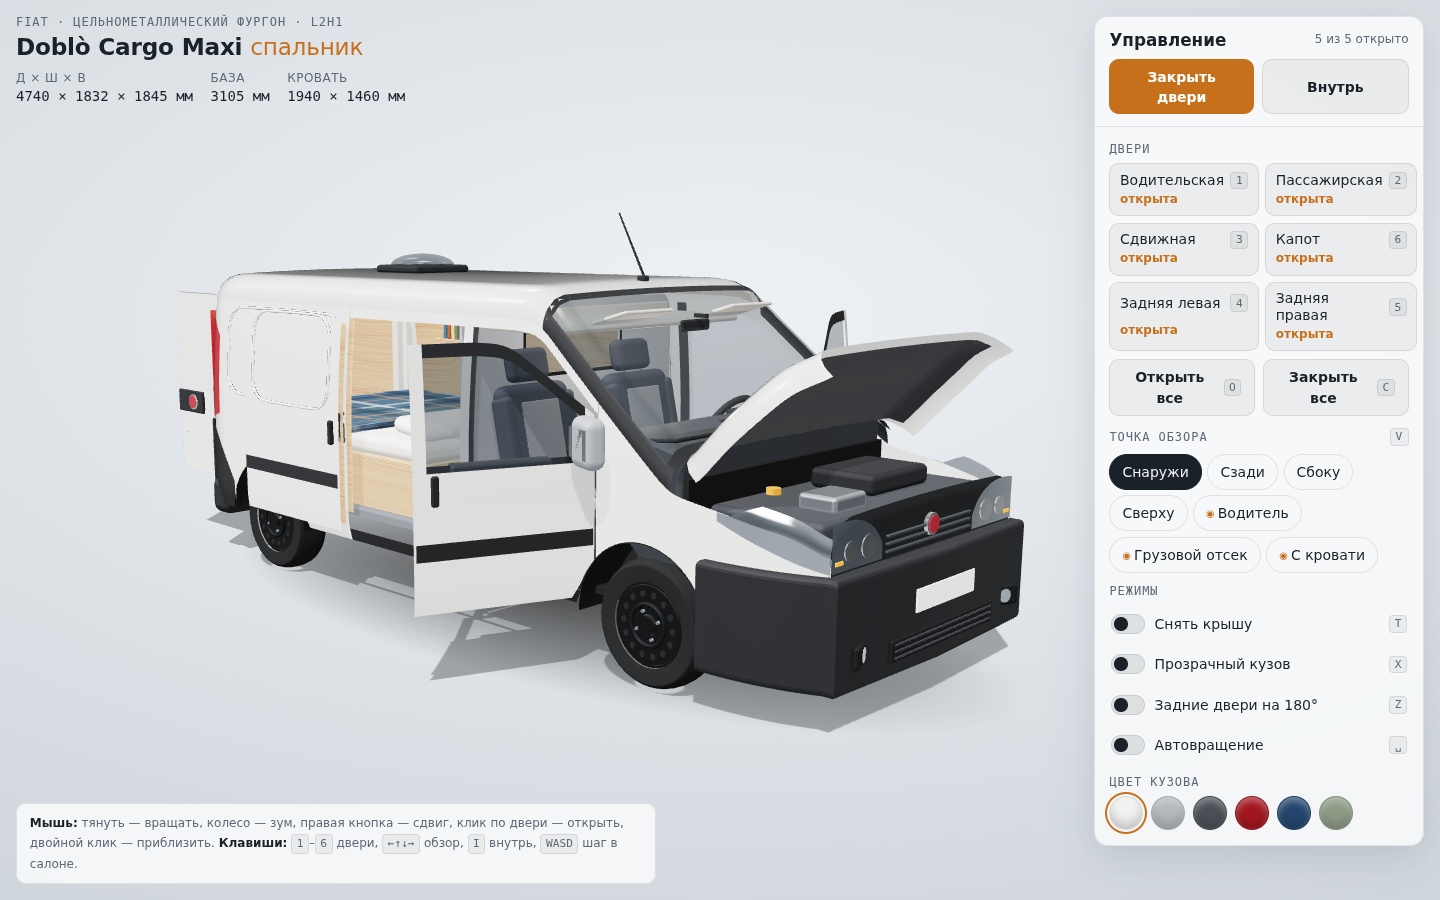
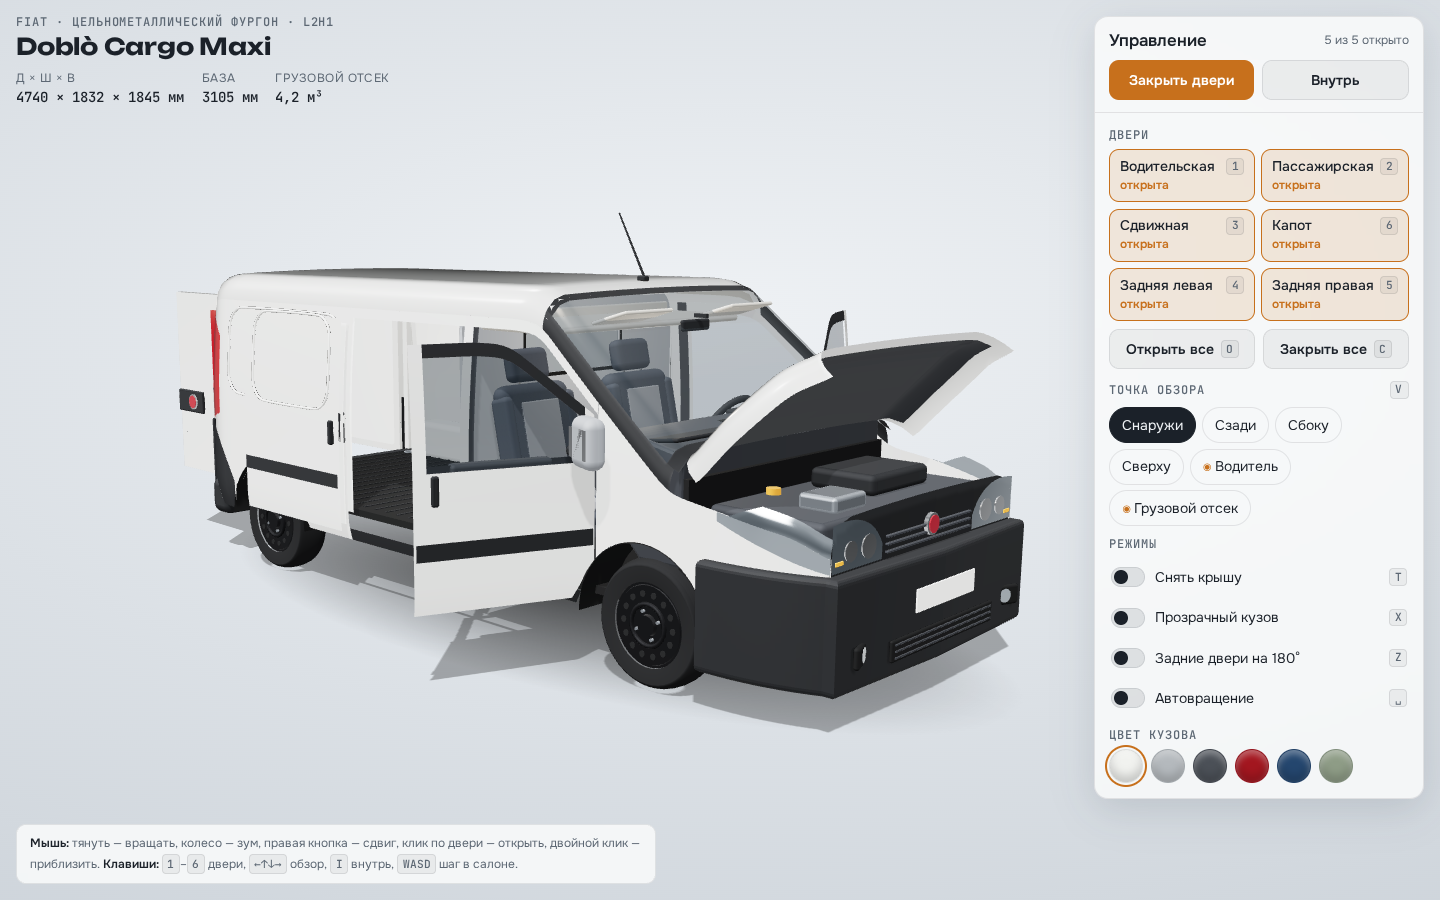
Remove sleeper module: plain empty cargo van as in the photos
Drop the bed, drawers, shelf, plywood lining, LED strips and roof fan.
The cargo area is now bare painted metal with frame stiffeners, a
ribbed rubber floor, tie-down rings, wheel-arch housings and a dome
light. UI and README no longer mention the sleeper.

Claude-Session: https://claude.ai/code/session_01WEnvUqq9Q1ewvEPp3gbKib

diff --git a/js/car.js b/js/car.js
@@ -1,4 +1,4 @@
-// Процедурная модель Fiat Doblò Cargo Maxi (кузов 263, L2H1) с жилым модулем «спальник».
+// Процедурная модель цельнометаллического фургона Fiat Doblò Cargo Maxi (кузов 263, L2H1).
 // Система координат модели: X — вдоль машины (0 = задний срез, +X вперёд), Y — вверх, Z — вправо.
 // Единицы — метры. Габариты взяты из техданных: 4740 × 1832 × 1845 мм, база 3105 мм.
 import * as THREE from 'three';
@@ -245,38 +245,6 @@ function rand(seed) {
   return () => ((s = (s * 16807) % 2147483647) / 2147483647);
 }
 
-const woodTexture = () =>
-  canvasTexture(512, 512, (g, w, h) => {
-    const r = rand(7);
-    g.fillStyle = '#c9a37a';
-    g.fillRect(0, 0, w, h);
-    for (let i = 0; i < 90; i++) {
-      const y = r() * h;
-      g.strokeStyle = `rgba(${120 + r() * 40},${80 + r() * 30},${40 + r() * 20},${0.12 + r() * 0.2})`;
-      g.lineWidth = 1 + r() * 3;
-      g.beginPath();
-      g.moveTo(0, y);
-      for (let x = 0; x <= w; x += 32) g.lineTo(x, y + Math.sin(x * 0.02 + i) * (2 + r() * 4));
-      g.stroke();
-    }
-  });
-
-const plaidTexture = () =>
-  canvasTexture(256, 256, (g, w, h) => {
-    g.fillStyle = '#39556b';
-    g.fillRect(0, 0, w, h);
-    g.globalAlpha = 0.55;
-    for (const [c, o, s] of [
-      ['#c9d4dc', 0, 18],
-      ['#1f3344', 64, 40],
-      ['#d98c3a', 150, 8],
-    ]) {
-      g.fillStyle = c;
-      g.fillRect(o, 0, s, h);
-      g.fillRect(0, o, w, s);
-    }
-  }, [2, 2]);
-
 const fabricTexture = () =>
   canvasTexture(128, 128, (g, w, h) => {
     const r = rand(3);
@@ -315,16 +283,12 @@ export function createMaterials() {
     amber: new THREE.MeshStandardMaterial({ color: 0xf0a020, roughness: 0.2, emissive: 0x6a3d00, emissiveIntensity: 0.5 }),
     tire: new THREE.MeshStandardMaterial({ color: 0x17181a, roughness: 0.92 }),
     fabric: new THREE.MeshStandardMaterial({ color: 0xffffff, map: fabricTexture(), roughness: 0.95 }),
-    wood: new THREE.MeshStandardMaterial({ color: 0xffffff, map: woodTexture(), roughness: 0.7, side: DS }),
-    felt: new THREE.MeshStandardMaterial({ color: 0x6c7076, roughness: 1, side: DS }),
-    mattress: new THREE.MeshStandardMaterial({ color: 0xe6e2da, roughness: 0.95 }),
-    pillow: new THREE.MeshStandardMaterial({ color: 0xf5f2ec, roughness: 0.95 }),
-    blanket: new THREE.MeshStandardMaterial({ color: 0xffffff, map: plaidTexture(), roughness: 0.98 }),
     led: new THREE.MeshStandardMaterial({ color: 0xfff3da, emissive: 0xffd9a0, emissiveIntensity: 2.2 }),
     screen: new THREE.MeshStandardMaterial({ color: 0x0b0f14, emissive: 0x2a6fa8, emissiveIntensity: 0.55, roughness: 0.2 }),
     gauge: new THREE.MeshStandardMaterial({ color: 0x0d0e10, emissive: 0xffffff, emissiveIntensity: 0.02, roughness: 0.3 }),
     plate: new THREE.MeshStandardMaterial({ color: 0xf6f6f2, roughness: 0.5 }),
     rubber: new THREE.MeshStandardMaterial({ color: 0x101112, roughness: 0.9, side: DS }),
+    paintInner: new THREE.MeshStandardMaterial({ color: 0xe9eae7, roughness: 0.55, side: DS }), // изнанка кузова
     bulkhead: new THREE.MeshStandardMaterial({ color: 0x9b9fa4, roughness: 1, side: DS }), // серый войлок
     fabricLight: new THREE.MeshStandardMaterial({ color: 0x7d8085, roughness: 1 }),
     steelBlack: new THREE.MeshStandardMaterial({ color: 0x1c1d20, metalness: 0.55, roughness: 0.45 }),
@@ -401,8 +365,13 @@ export function buildCar(M) {
     emboss(side, 0.3, hasSlide ? X_SL - 0.08 : X_B2 - 0.1, 1.1, 1.64);
     // молдинг: слева продолжается на боковину, справа — только на дверях
     if (!hasSlide) mesh(sideGeo({ side, x0: 1.55, x1: X_B2 - 0.01, y0: 0.66, y1: 0.74, off: 0.008, nu: 12, nv: 1 }), M.plastic);
-    // обшивка грузового отсека изнутри (фанера)
-    mesh(sideGeo({ side, x0: 0.06, x1: hasSlide ? X_SL : 2.46, y0: 0.5, y1: (x) => shoulder(x) - 0.02, off: -0.035, nu: 24, nv: 10 }), M.wood, interior);
+    // грузовой отсек без обшивки: внутренняя панель боковины из окрашенного металла
+    mesh(sideGeo({ side, x0: 0.06, x1: hasSlide ? X_SL : 2.46, y0: 0.5, y1: (x) => shoulder(x) - 0.02, off: -0.035, nu: 24, nv: 10 }), M.paintInner, interior);
+    // стойки-усилители каркаса и крючки для крепления груза
+    for (const x of [0.55, 1.2]) {
+      if (hasSlide && x > X_SL - 0.1) continue;
+      mesh(sideGeo({ side, x0: x - 0.04, x1: x + 0.04, y0: 0.72, y1: (xx) => shoulder(xx) - 0.03, off: -0.06, nu: 2, nv: 6 }), M.paintInner, interior);
+    }
     mesh(sideGeo({ side, x0: X_B2, x1: X_B, y0: 0.5, off: -0.035, nu: 2, nv: 8 }), M.trim, interior);
     if (hasSlide) {
       // закрытая направляющая сдвижной двери на задней боковине
@@ -434,7 +403,7 @@ export function buildCar(M) {
 
   // ----- крыша, лобовое стекло, капот
   mesh(topGeo({ x0: 0, x1: 3.14, nu: 30, nv: 30 }), M.paint, roof);
-  mesh(topGeo({ x0: 0.06, x1: 2.55, off: -0.03, s0: -0.93, s1: 0.93, nu: 10, nv: 20 }), M.wood, roof);
+  mesh(topGeo({ x0: 0.06, x1: 2.46, off: -0.03, s0: -0.93, s1: 0.93, nu: 10, nv: 20 }), M.paintInner, roof);
   mesh(topGeo({ x0: 2.55, x1: 3.12, off: -0.03, s0: -0.93, s1: 0.93, nu: 6, nv: 20 }), M.headliner, roof);
   mesh(topGeo({ x0: 3.14, x1: 3.95, s0: -0.9, s1: 0.9, nu: 20, nv: 24 }), M.glass, body, false);
   mesh(topGeo({ x0: 3.12, x1: 3.97, s0: -1, s1: -0.9, nu: 20, nv: 4 }), M.plastic);
@@ -448,15 +417,6 @@ export function buildCar(M) {
     ant.position.set(2.92, p.y + 0.18, 0);
     ant.rotation.z = 0.5;
     box(0.06, 0.03, 0.04, 0.01, M.plastic, 3.0, p.y + 0.01, 0, roof);
-  }
-  // вентилятор-люк спального модуля
-  {
-    const p = topPoint(1.15, 0, 0, new THREE.Vector3());
-    box(0.42, 0.05, 0.42, 0.02, M.plastic, 1.15, p.y + 0.02, 0, roof);
-    const dome = mesh(new THREE.SphereGeometry(0.2, 24, 12, 0, Math.PI * 2, 0, Math.PI / 2), M.glass, roof, false);
-    dome.scale.y = 0.35;
-    dome.position.set(1.15, p.y + 0.045, 0);
-    box(0.4, 0.02, 0.4, 0.005, M.plastic, 1.15, p.y - 0.05, 0, roof);
   }
 
   // капот — открывается
@@ -593,10 +553,17 @@ export function buildCar(M) {
   }
 
   // ----- пол, перегородки, колёсные ниши внутри
-  box(2.52, 0.04, 1.62, 0, M.felt, 0.05 + 2.52 / 2, 0.48, 0, interior);
+  // пол грузового отсека: чёрное резиновое покрытие с рифлением и проушины крепления груза
+  box(2.42, 0.04, 1.62, 0, M.rubber, 0.05 + 2.42 / 2, 0.48, 0, interior);
+  for (let i = 0; i < 22; i++) box(0.012, 0.006, 1.5, 0, M.plastic, 0.12 + i * 0.105, 0.503, 0, interior);
+  for (const x of [0.2, 2.3]) for (const z of [-0.62, 0.62]) {
+    const ring = mesh(new THREE.TorusGeometry(0.03, 0.006, 6, 16), M.steel, interior);
+    ring.rotation.x = Math.PI / 2;
+    ring.position.set(x, 0.51, z);
+  }
   box(1.35, 0.04, 1.62, 0, M.rubber, 2.57 + 1.35 / 2, 0.4, 0, interior);
   for (const side of [-1, 1]) {
-    box(0.82, 0.26, 0.2, 0.04, M.felt, DIM.rearAxle, 0.62, side * 0.72, interior);
+    box(0.82, 0.26, 0.2, 0.04, M.paintInner, DIM.rearAxle, 0.62, side * 0.72, interior);
   }
   // перегородка «кабина / грузовой отсек» с окном, как у серийного Doblò Cargo
   {
@@ -731,7 +698,7 @@ export function buildCar(M) {
     // грузовой фургон: сдвижная дверь глухая, без окна
     mesh(sideGeo({ side, x0, x1, y0: Y_SILL, y1: top, nu: 24, nv: 16 }), M.paint, g);
     emboss(side, x0 + 0.1, x1 - 0.1, 1.1, 1.64, g);
-    mesh(sideGeo({ side, x0: x0 + 0.02, x1: x1 - 0.02, y0: Y_SILL + 0.03, y1: (x) => top(x) - 0.03, off: -0.05, nu: 20, nv: 10 }), M.wood, g);
+    mesh(sideGeo({ side, x0: x0 + 0.02, x1: x1 - 0.02, y0: Y_SILL + 0.03, y1: (x) => top(x) - 0.03, off: -0.05, nu: 20, nv: 10 }), M.paintInner, g);
     mesh(sideGeo({ side, x0: x0 + 0.01, x1: x1 - 0.01, y0: 0.66, y1: 0.74, off: 0.008, nu: 20, nv: 1 }), M.plastic, g);
     box(0.035, 0.14, 0.03, 0.012, M.plastic, x1 - 0.06, 0.98, side * (HW + 0.012), g);
     box(0.03, 0.18, 0.04, 0.012, M.plastic, x1 - 0.06, 1.0, side * (HW - 0.07), g);
@@ -788,7 +755,7 @@ export function buildCar(M) {
     panel.position.x = depth;
     // обшивка изнутри
     const trimShape = roundedRectShape(za + 0.05, y0 + 0.05, zb - 0.05, y1 - 0.06, 0.03);
-    mesh(capGeo(trimShape, depth + 0.012), M.wood, g);
+    mesh(capGeo(trimShape, depth + 0.012), M.paintInner, g);
     // ручка, номер
     // чёрная накладка поперёк дверей: на левой — номер и ручка, на правой — эмблема
     if (side < 0) {
@@ -966,71 +933,11 @@ export function buildCar(M) {
     box(0.12, 0.02, 0.2, 0.01, M.led, 3.05, 1.8, 0, roof);
   }
 
-  // ---------------------------------------------------------------- спальный модуль
-  const sleeper = new THREE.Group();
-  interior.add(sleeper);
-  {
-    const bx0 = 0.08;
-    const bx1 = 2.02;
-    const L = bx1 - bx0;
-    const cx = (bx0 + bx1) / 2;
-    const top = 0.8;
-    // каркас и столешница кровати
-    box(L, 0.022, 1.46, 0.004, M.wood, cx, top, 0, sleeper);
-    for (const z of [-0.72, 0.72]) box(L, 0.3, 0.018, 0.003, M.wood, cx, 0.65, z, sleeper);
-    box(0.018, 0.3, 1.44, 0.003, M.wood, bx1, 0.65, 0, sleeper);
-    // выдвижные ящики со стороны задних дверей
-    const drawers = [];
-    for (const [z, w] of [[-0.38, 0.62], [0.38, 0.62]]) {
-      const d = new THREE.Group();
-      d.position.set(bx0, 0, z);
-      sleeper.add(d);
-      box(0.02, 0.26, w, 0.004, M.wood, 0, 0.65, 0, d);
-      box(0.55, 0.018, w - 0.04, 0.003, M.wood, 0.28, 0.53, 0, d);
-      box(0.5, 0.2, 0.012, 0.002, M.wood, 0.28, 0.63, (w / 2 - 0.02), d);
-      box(0.5, 0.2, 0.012, 0.002, M.wood, 0.28, 0.63, -(w / 2 - 0.02), d);
-      box(0.025, 0.03, 0.16, 0.012, M.plastic, -0.02, 0.7, 0, d);
-      // содержимое ящика
-      box(0.22, 0.12, 0.2, 0.02, M.amber, 0.2, 0.6, 0.12, d).material = M.plasticMid;
-      box(0.18, 0.1, 0.16, 0.03, M.blanket, 0.38, 0.59, -0.12, d);
-      drawers.push(d);
-    }
-    // матрас
-    box(L - 0.02, 0.12, 1.42, 0.05, M.mattress, cx, top + 0.07, 0, sleeper);
-    // подушки у кабины
-    for (const z of [-0.34, 0.34]) {
-      const p = box(0.36, 0.1, 0.56, 0.05, M.pillow, bx1 - 0.25, top + 0.18, z, sleeper);
-      p.rotation.z = -0.12;
-    }
-    // плед
-    const bl = box(1.15, 0.035, 1.46, 0.015, M.blanket, bx0 + 0.62, top + 0.145, 0, sleeper);
-    void bl;
-    const fold = box(0.14, 0.05, 1.46, 0.022, M.blanket, bx0 + 1.2, top + 0.15, 0, sleeper);
-    void fold;
-    // светодиодные ленты и точечный свет
-    for (const side of [-1, 1]) {
-      const p = topPoint(1.2, side * 0.86, -0.045, new THREE.Vector3());
-      box(2.1, 0.012, 0.025, 0.004, M.led, 1.2, p.y, p.z, roof);
-    }
-    // полка с книгами на левой стенке
-    box(0.7, 0.015, 0.14, 0.004, M.wood, 0.8, 1.35, -0.74, sleeper);
-    const books = [0x3b5f7a, 0x8c4a2f, 0xd4b26a, 0x4f6b4a, 0x6c4f7a];
-    books.forEach((c, i) => {
-      const m = new THREE.MeshStandardMaterial({ color: c, roughness: 0.8 });
-      box(0.03, 0.18 + (i % 2) * 0.03, 0.11, 0.004, m, 0.55 + i * 0.04, 1.45 + (i % 2) * 0.015, -0.74, sleeper);
-    });
-    // термос-кружка и фонарик на полке
-    const mug = mesh(new THREE.CylinderGeometry(0.035, 0.035, 0.12, 20), M.steel, sleeper);
-    mug.position.set(0.95, 1.42, -0.74);
-    // сетка-органайзер на правой стенке
-    box(0.6, 0.35, 0.01, 0.005, M.plastic, 0.9, 1.25, 0.77, sleeper).material = new THREE.MeshStandardMaterial({
-      color: 0x2c3036, roughness: 1, transparent: true, opacity: 0.75,
-    });
-    sleeper.userData.drawers = drawers;
-  }
+  // плафон грузового отсека
+  box(0.16, 0.025, 0.08, 0.01, M.led, 1.3, topPoint(1.3, 0, -0.035, new THREE.Vector3()).y - 0.01, 0, roof);
 
   // Светильники салона: без теней, чтобы внутри было видно и при закрытой машине.
-  const cabinLight = new THREE.PointLight(0xffe2b8, 1.2, 3.2, 1.6);
+  const cabinLight = new THREE.PointLight(0xfff4e2, 1.0, 3.2, 1.6);
   cabinLight.position.set(1.1, 1.55, 0);
   interior.add(cabinLight);
   const cabinLight2 = new THREE.PointLight(0xfff0dc, 0.7, 2.4, 1.6);

diff --git a/index.html b/index.html
@@ -4,7 +4,7 @@
 <meta charset="utf-8">
 <meta name="viewport" content="width=device-width, initial-scale=1, viewport-fit=cover">
 <title>Doblò Cargo Maxi 3D</title>
-<meta name="description" content="Интерактивная WebGL-модель Fiat Doblò Cargo Maxi с интерьером и спальным модулем.">
+<meta name="description" content="Интерактивная WebGL-модель цельнометаллического фургона Fiat Doblò Cargo Maxi с кабиной и грузовым отсеком.">
 <link rel="preconnect" href="https://fonts.googleapis.com">
 <link rel="preconnect" href="https://fonts.gstatic.com" crossorigin>
 <link rel="stylesheet" href="https://fonts.googleapis.com/css2?family=Onest:wght@400;500;600&family=Unbounded:wght@500;700&family=JetBrains+Mono:wght@500&display=swap">
@@ -19,11 +19,11 @@
 
 <header class="brand">
   <p class="eyebrow">Fiat · цельнометаллический фургон · L2H1</p>
-  <h1>Doblò Cargo Maxi <span>спальник</span></h1>
+  <h1>Doblò Cargo Maxi</h1>
   <dl class="spec">
     <div><dt>Д × Ш × В</dt><dd>4740 × 1832 × 1845 мм</dd></div>
     <div><dt>База</dt><dd>3105 мм</dd></div>
-    <div><dt>Кровать</dt><dd>1940 × 1460 мм</dd></div>
+    <div><dt>Грузовой отсек</dt><dd>4,2 м³</dd></div>
   </dl>
 </header>
 

diff --git a/js/main.js b/js/main.js
@@ -143,8 +143,7 @@ const VIEWS = {
   side: { label: 'Сбоку', cam: W(2.0, 1.55, 4.2), target: W(1.75, 0.95, 0), open: ['sr', 'fr'] },
   top: { label: 'Сверху', cam: W(CX + 0.6, 6.4, 0.9), target: W(CX, 0.6, 0), roofOff: true },
   driver: { label: 'Водитель', inside: true, pos: W(2.74, 1.47, -0.42), yaw: 0.05, pitch: -0.13 },
-  sleeper: { label: 'Грузовой отсек', inside: true, pos: W(2.36, 1.52, 0.05), yaw: Math.PI, pitch: -0.2 },
-  bed: { label: 'С кровати', inside: true, pos: W(1.78, 1.16, 0.22), yaw: Math.PI + 0.12, pitch: -0.06, open: ['rl', 'rr'] },
+  sleeper: { label: 'Грузовой отсек', inside: true, pos: W(2.3, 1.45, 0.05), yaw: Math.PI, pitch: -0.28 },
 };
 
 let mode = 'outside';

diff --git a/README.md b/README.md
@@ -1,6 +1,6 @@
-# Fiat Doblò Cargo Maxi — 3D-модель со спальником (WebGL)
+# Fiat Doblò Cargo Maxi — 3D-модель фургона (WebGL)
 
-Интерактивная модель цельнометаллического фургона Fiat Doblò Cargo Maxi (кузов 263, L2H1) на three.js: глухой грузовой отсек без окон, перегородка с окном за кабиной, кабина и спальный модуль в грузовом отсеке. Можно вращать машину, открывать все двери и капот, заглядывать внутрь и ходить по салону от первого лица. Интерфейс рассчитан и на ПК, и на телефон.
+Интерактивная модель цельнометаллического фургона Fiat Doblò Cargo Maxi (кузов 263, L2H1) на three.js: глухой грузовой отсек без окон, перегородка с окном за кабиной и кабина с интерьером. Можно вращать машину, открывать все двери и капот, заглядывать внутрь и ходить по салону от первого лица. Интерфейс рассчитан и на ПК, и на телефон.
 
 ![Снаружи](screenshots/01-exterior.png)
 
@@ -22,7 +22,7 @@ python3 -m http.server 8080
 - **Двери:** две передние распашные, одна глухая сдвижная справа (сначала отходит наружу, потом едет назад по направляющей), глухие задние распашные с открытием на 90° или 180° (левая створка шире, на ней номер и ручка), капот. Слева глухая боковина с лючком бензобака.
 - **Внешность по фото реальной машины:** большая выштамповка на боковинах, чёрные молдинги на дверях, чёрный передний бампер с противотуманками, чёрные угловые накладки сзади, чёрные стальные диски без колпаков, антенна на крыше.
 - **Кабина:** торпедо с двумя большими и двумя малыми циферблатами, овальная центральная консоль с вертикальными дефлекторами, магнитолой и тремя ручками климата, руль с крупной подушкой, КПП, ручник, два сиденья с светлыми вставками и подлокотником, полка над лобовым стеклом, перегородка за кабиной с окном, обитая серым войлоком.
-- **Спальник:** фанерная обшивка, кровать 1940 × 1460 мм с матрасом, подушками и пледом, выдвижные ящики со стороны задних дверей, полка с книгами, LED-ленты, люк-вентилятор на крыше.
+- **Грузовой отсек:** пустой, без обшивки: окрашенный металл стен и крыши, усилители каркаса, резиновый пол с рифлением, проушины для крепления груза, кожухи колёсных арок, плафон.
 - **Режимы:** снять крышу, прозрачный кузов, 6 цветов кузова, автовращение.
 
 ## Управление
@@ -51,7 +51,7 @@ python3 -m http.server 8080
 |---|---|
 | ![Все двери открыты](screenshots/02-all-doors-open.png) | ![Задние двери на 180°](screenshots/03-rear-doors-180.png) |
 | ![Через сдвижную дверь](screenshots/04-side-sliding-door.png) | ![Место водителя](screenshots/05-driver-seat.png) |
-| ![Грузовой отсек](screenshots/06-sleeper-from-cab.png) | ![Вид с кровати](screenshots/07-view-from-bed.png) |
+| ![Грузовой отсек из кабины](screenshots/06-cargo-from-cab.png) | ![Грузовой отсек через сдвижную дверь](screenshots/07-cargo-through-side-door.png) |
 | ![Сверху без крыши](screenshots/08-top-roof-off.png) | ![Прозрачный кузов, тёмная тема](screenshots/09-xray-dark.png) |
 
 Телефон:
@@ -67,7 +67,7 @@ python3 -m http.server 8080
 ```
 index.html        разметка интерфейса
 css/style.css     оформление, светлая и тёмная темы, мобильная шторка
-js/car.js         процедурная модель: кузов, двери, кабина, спальник
+js/car.js         процедурная модель: кузов, двери, кабина, грузовой отсек
 js/main.js        сцена, камера, осмотр изнутри, двери, клавиатура и сенсор
 lib/              three.js r169 и нужные дополнения (лицензия MIT)
 ```
